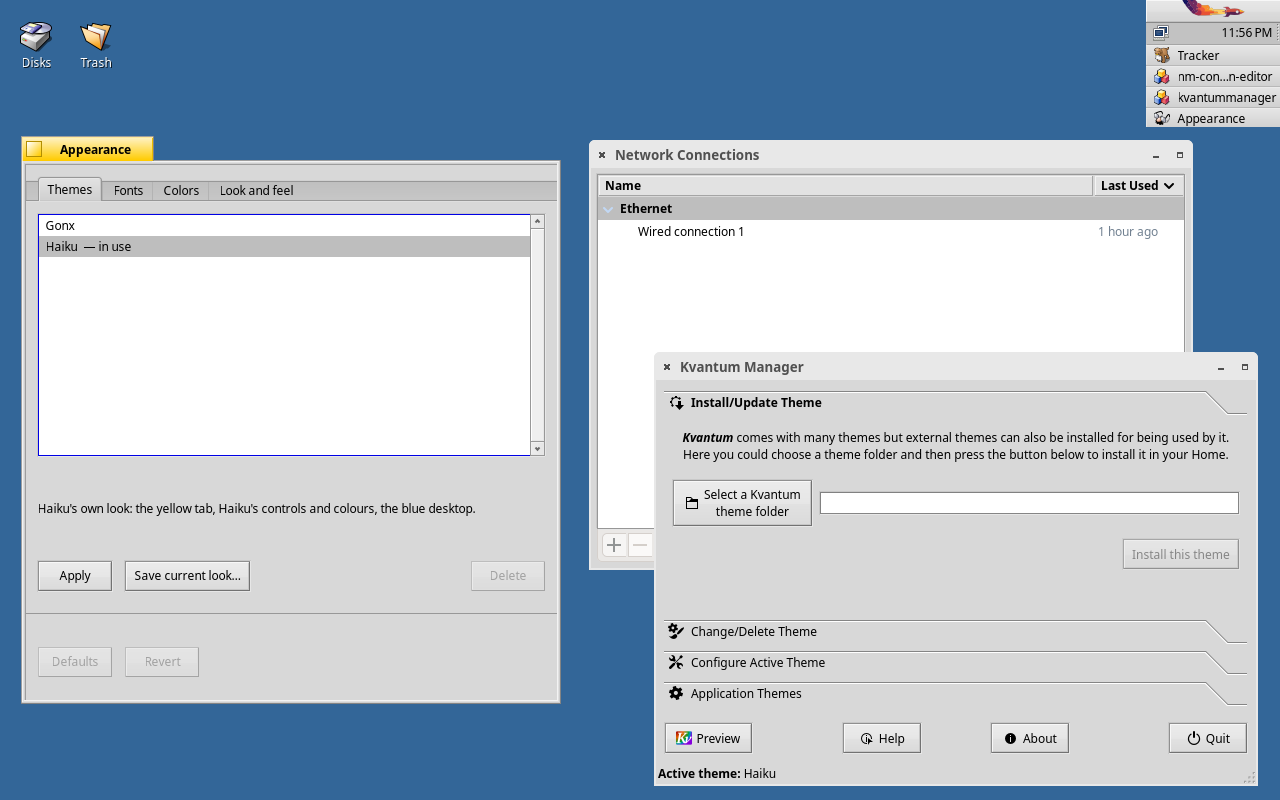
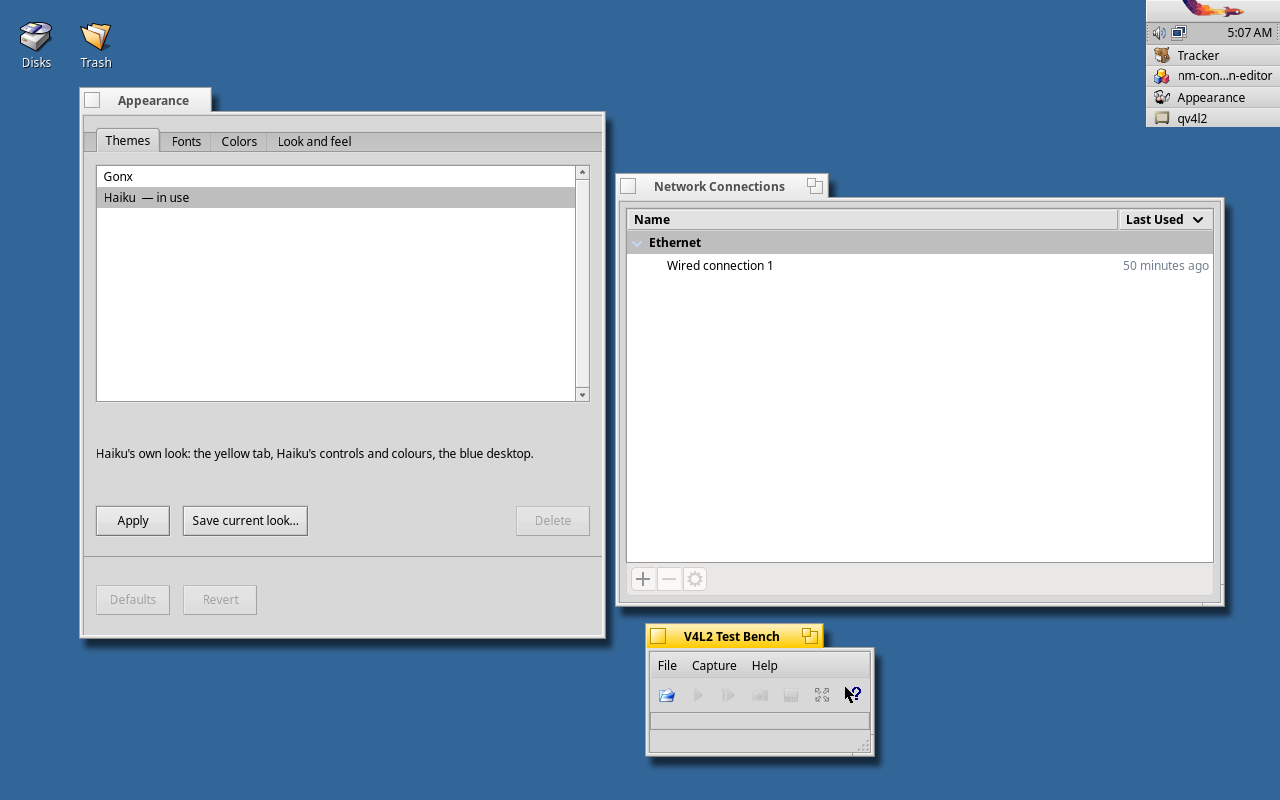
README: the unified themes' screenshots from Hokku OS
Haiku's look and Gonx with every window in the theme's frame and
shadow, GTK and Qt apps included, and the Gonx controls side by side
in Hokku, GTK 3 and Qt.

diff --git a/README.md b/README.md
@@ -228,12 +228,20 @@ and icons from GTK's settings, and keeps GTK's scroll bars beside the content
 (`GTK_OVERLAY_SCROLLING=0`); Qt apps pick up a new style and font when they start, and GTK
 4/libadwaita apps keep their own look.
 
-Haiku's look and Gonx on Hokku OS: Appearance's Themes tab, Network Connections (GTK 3) and
-Kvantum Manager (Qt), all switched together.
+Haiku's look and Gonx on Hokku OS: Appearance (a Hokku app), Network Connections (GTK 3) and
+V4L2 Test Bench (Qt 6), all switched together. All three wear the theme's frame (labwc draws it
+round the Linux apps with Hokku's own frame code) and cast the same shadow; the Qt app is the
+active window.
 
-![Haiku's look: Appearance's Themes tab with Haiku in use in a yellow Haiku tab, Network Connections (GTK) and Kvantum Manager (Qt) in Haiku's grey controls, on Haiku's blue desktop](docs/screenshots/theme-haiku.png)
+![Haiku's look: Appearance with Haiku in use, Network Connections and V4L2 Test Bench, each in Haiku's frame, a tab as wide as its title with the close box at the left and the zoom box at the right, casting a soft shadow down and to the right, on Haiku's blue desktop](docs/screenshots/theme-haiku.png)
 
-![Gonx: the same three windows in the Gonx look, on the Gonx desktop, with the Hokku tab on the Deskbar](docs/screenshots/theme-gonx.png)
+![Gonx: the same three windows in the Gonx frame, a rounded tab with the close, zoom and minimize buttons on a blue-grey shelf beside it, each casting a soft shadow, on the Gonx desktop](docs/screenshots/theme-gonx.png)
+
+The Gonx controls in Showcase and in the GTK and Qt test galleries, which copy its layout:
+
+| Hokku | GTK 3 | Qt (Kvantum) |
+|---|---|---|
+| ![Showcase's check boxes, radio buttons and buttons in Gonx](docs/screenshots/gonx-hokku.png) | ![GTK check boxes with the Gonx ✕, radio buttons, buttons and scroll bars](docs/screenshots/gonx-gtk.png) | ![Qt check boxes, radio buttons, buttons, scroll bar and fields in Gonx](docs/screenshots/gonx-qt.png) |
 
 Windows in the Haiku and Gonx frames cast a soft shadow, of a light above and to the left
 (`gonx_frame_paint_shadow()`; Hokku OS's labwc draws the same under other apps' windows). The
